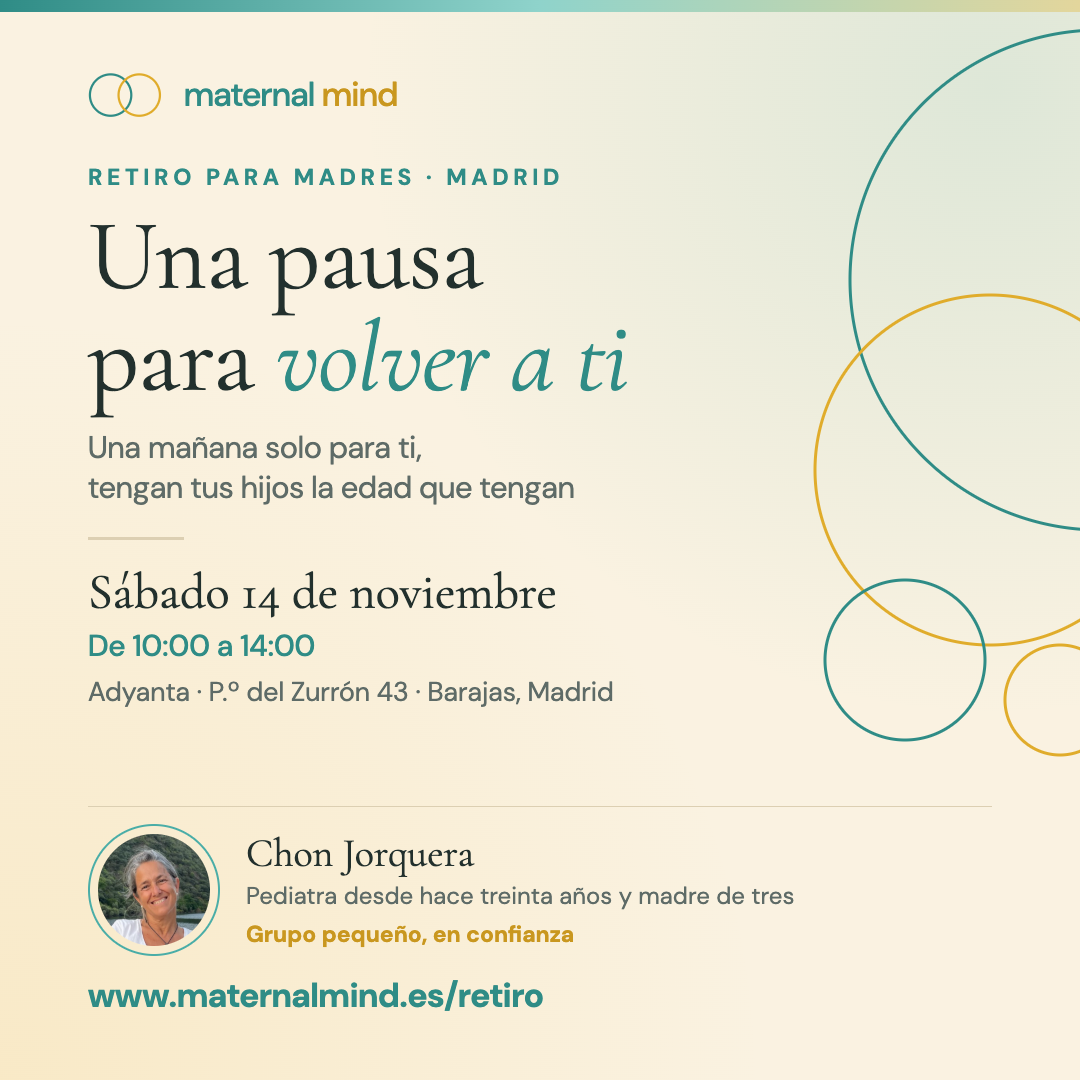
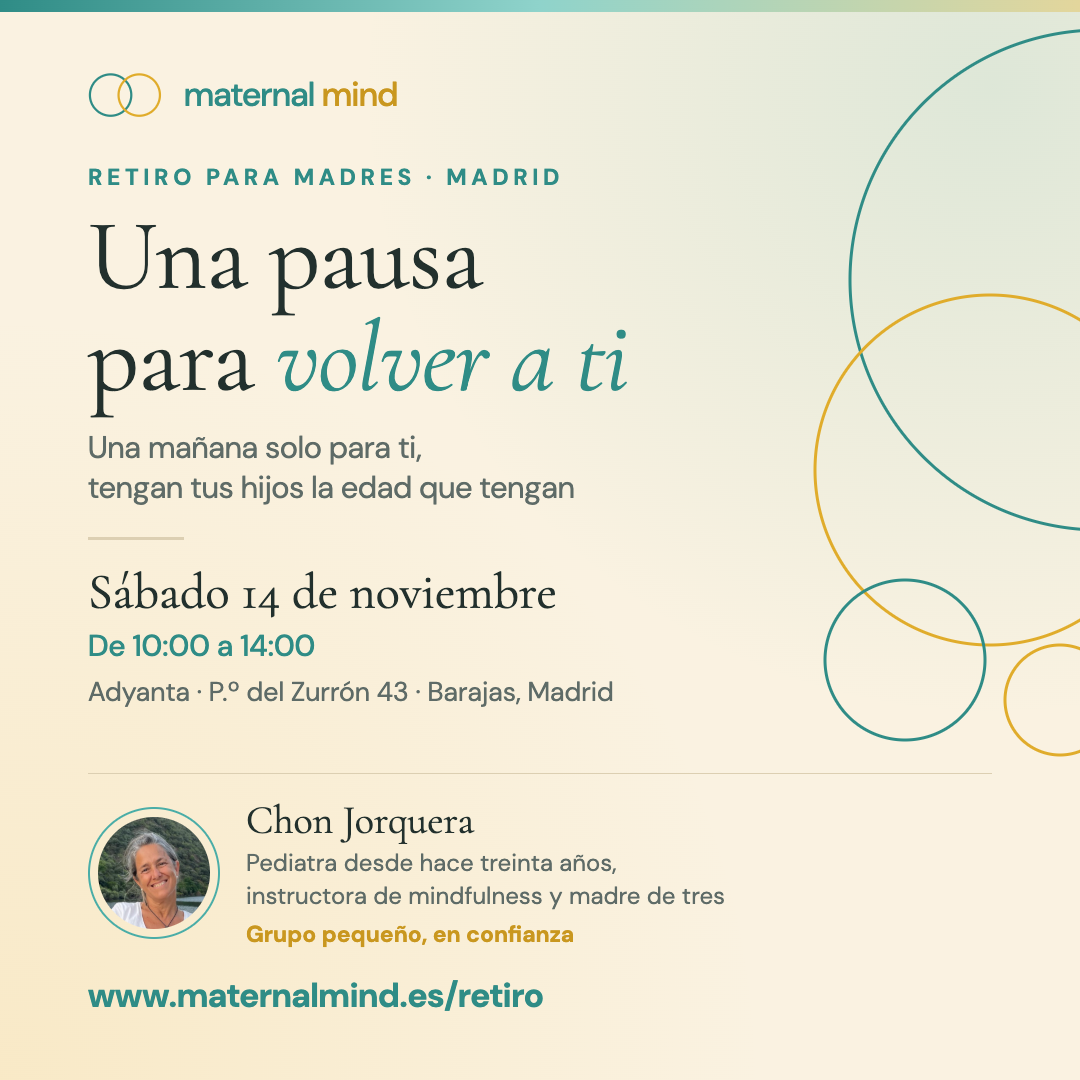
Imagen de WhatsApp del retiro: añade «instructora de mindfulness», como el resto de piezas

Changed region(s): [[0.0611, 0.7333, 0.7333, 0.8861]]

diff --git a/retiros/img/retiro-whatsapp.html b/retiros/img/retiro-whatsapp.html
@@ -117,7 +117,7 @@
   <figure class="retrato"><img src="chon-retrato.jpg" alt="Chon Jorquera"></figure>
   <div class="quien">
     <p class="nombre">Chon Jorquera</p>
-    <p class="cred">Pediatra desde hace treinta años y madre de tres</p>
+    <p class="cred">Pediatra desde hace treinta años,<br>instructora de mindfulness y madre de tres</p>
     <p class="grupo">Grupo pequeño, en confianza</p>
   </div>
 </div>
